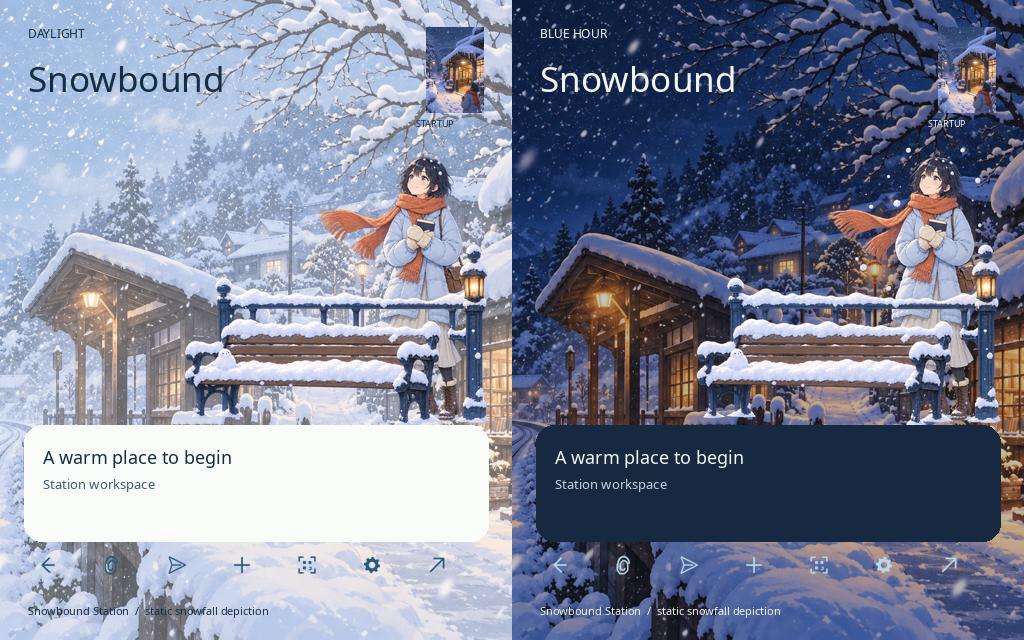
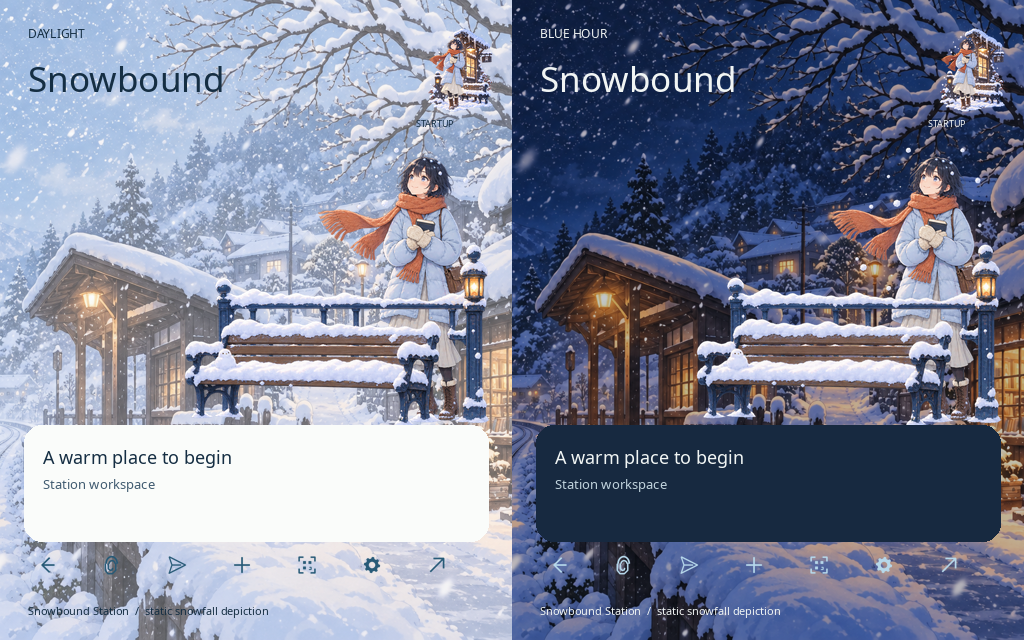
fix: fit Snowbound startup art to native launch slot (#84)

Changed region(s): [[0.9062, 0.0312, 1.0, 0.1875], [0.4062, 0.0312, 0.5, 0.1875]]

diff --git a/src/snowbound-station/CREDITS.md b/src/snowbound-station/CREDITS.md
@@ -32,10 +32,22 @@ Prompt: Use case illustration-story. Original transparent foreground vignette fo
 
 ## Independent startup
 
-File: launch-artwork.png. Original: exec-c019ae9d-0af5-4025-a1b3-301055510b54.png.
-Creator/source: OpenAI image generation, original independent scene.
+File: launch-artwork.png.
+Original: exec-c4783e5b-c966-4f26-a8c2-feffedeea7b0.png.
+Creator/source: OpenAI image generation, new transparent output with the original
+Home foreground and startup scene as style references. Actual alpha is preserved.
+The original opaque portrait was replaced to fit the native launch artwork slot.
 
-Prompt: Use case illustration-story. Create separate original portrait 1024x1536 Japanese anime snowy railway station startup illustration, clean exquisite thin linework, delicate youthful anime cel shading, NOT thick oilpaint. Camera close to a snow-buried little wooden station entrance and window glowing amber at blue hour, winter blue snow and dense layers of falling white flakes. The building fills right 2/3, depth through narrow snowy passage into snowy woods at left. A small friendly youthful ADULT woman age22 with short navy bob, orange knitted scarf, pale blue puffer and mittens holding closed book is viewed in three-quarter back at lower right, looking up at snow, only 1/5 image height. Two beautiful icicle-lined eaves, huge fluffy snow pillows, lamp, tiny bench, footprints. Composition scene dominates, character small to establish human scale. Upper quarter dark blue softly snowy sky quiet for native launch title, no essential text. Luminous heavy-snow atmosphere and warm refuge. No text, labels, logos, UI, frame, watermarks, famous characters, dominant pinup.
+Prompt:
+
+Use case: illustration-story.
+Asset type: square transparent PNG launch illustration for Snowbound Station, read clearly in a 200–300 point app startup slot.
+Input images: Image 1 (launch-artwork.png) is a style and winter-station atmosphere reference ONLY; Image 2 (home-artwork.png) is a character and drawing-style reference ONLY. Create ONE NEW original composition, not the home scene.
+Primary request: an exquisite youthful Japanese anime winter girl with short navy-blue bob, gentle blue eyes, pale icy-blue quilted coat, rust-orange knitted scarf, cream mittens, holding a small dark book to her chest. Faithfully match the reference character and refined illustrated texture. She stands centrally, smiling softly and glancing up at a few snowflakes.
+Scene/backdrop: isolated compact winter station vignette; a small snow-capped wooden station door fragment with a single glowing warm amber window slightly behind her, and a short snow-covered wooden bench alongside her. Restrained snow at their feet forms an uneven small island. Station structure must terminate naturally as a fragment with irregular silhouette, not a full wall or solid rectangle. The girl is the clear main subject; station elements secondary.
+Style/medium: polished Japanese anime illustration, delicate linework, painterly detailed snow and fabric, soft warm light against icy-blue winter hues matching the references.
+Composition/framing: 1024x1024 square, centrally balanced, entire figure and scene visible with generous transparent margin on all four sides. Girl occupies about 65% of image height, architectural fragment smaller than figure, bench lower side balances the scene. Cohesive rounded but irregular cutout silhouette. Designed for square contain-fit placement.
+Constraints: genuinely transparent background with actual alpha channel outside the entire isolated vignette and in openings; no opaque rectangular backdrop, no sky, no landscape, no horizon, no full-frame ground, no background color, no checkerboard drawn into artwork, no border, no text, no watermark. Preserve crisp clean alpha edges and subtle standalone snowflakes. All outer canvas corners transparent.
 
 ## Graphic assets
 

diff --git a/src/snowbound-station/README.md b/src/snowbound-station/README.md
@@ -10,8 +10,9 @@ The wallpaper is the world: distant snowy houses, receding rails, buried platfor
 and three depths of falling flakes. It contains no person. The transparent Home
 vignette adds a small scarf-wrapped adult, snow-covered bench, rail and lantern
 on the right, leaving the title side quiet. Classic and Editorial share this one
-foreground. The independent startup illustration moves closer to the warm station
-door, with its own snowfall and camera framing.
+foreground. The independent startup illustration is a centered transparent cutout of the
+traveler, station doorway and snowy bench. Its irregular alpha silhouette fits
+the native square contain-fit launch slot without an opaque rectangular backdrop.
 
 Both modes explicitly fill all 11 decoration slots. Compact wallpapers preserve
 the station shelter and bookshop window; regular wallpapers retain the panorama.
